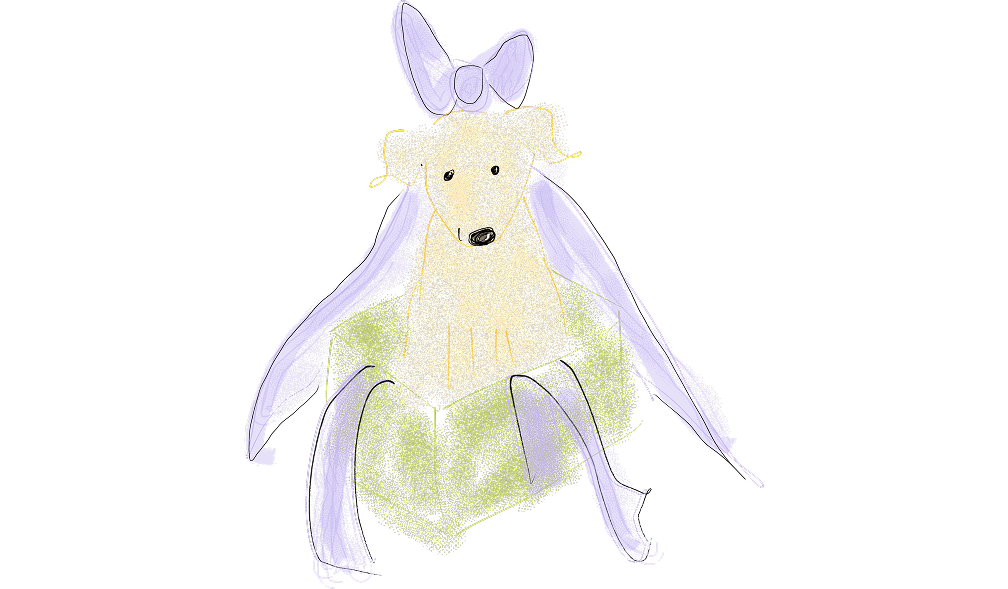
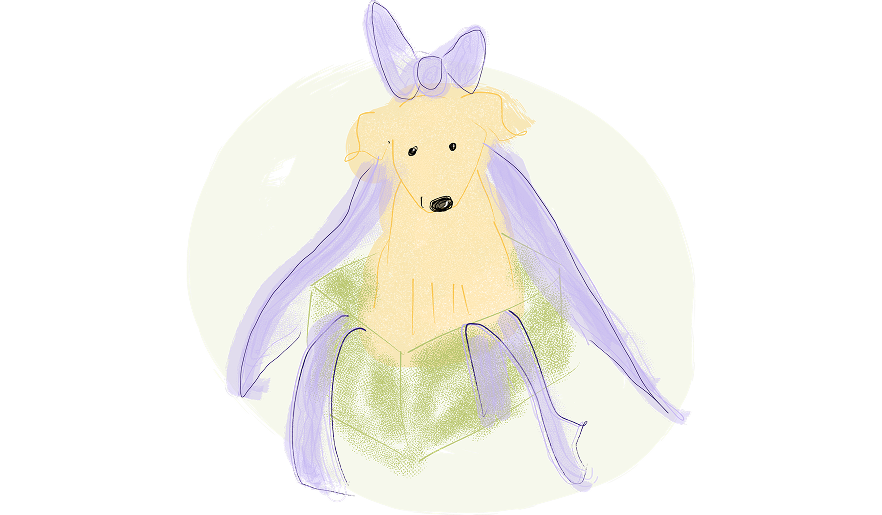
daily

Changed region(s): [[0.2449, 0.0, 0.7959, 0.9942]]

diff --git a/accomondations.html b/accomondations.html
@@ -55,7 +55,7 @@
             <div class="image-viewer">
                 <button class="arrow left">←</button>
 
-                <img id="gallery-image" src="assets/accomondations1.jpg" height="500px" width="auto" alt="Accommodation Image">
+                <img id="gallery-image" src="assets/boende.png" height="500px" width="auto" alt="Accommodation Image">
 
                 <button class="arrow right">→</button>
             </div>

diff --git a/agenda.html b/agenda.html
@@ -112,7 +112,7 @@
                     <summary>Söndag 27 Juni</summary>
                     <p>08:00-11:00 - Frukost</p>
                     <p>11:00 - Utcheckning & hemresa</p>
-                    
+                    <img src="assets/icons/dag4b.png" id="dag4bild">
                 </div>
                 <div class ="image-container">
                     <img src="assets/icons/dag4.png" alt="Description">

diff --git a/styling/style_agenda.css b/styling/style_agenda.css
@@ -1,6 +1,6 @@
 #header-agenda{
 
-    background-image: url("../assets/pic4.jpg");
+    background-image: url("../assets/agenda.png");
    
 
 }
@@ -128,6 +128,14 @@ button.arrow.right{
     font-weight: 600;
 }
 
+.day-container #dag4bild{
+    display: none;
+    
+}
+.day-container.expanded #dag4bild{
+    display: block;
+    
+}
 .day-container li{
     display: none;
     list-style-type: disc;

diff --git a/index.html b/index.html
@@ -26,7 +26,7 @@
 
 
         <div class="engagement">
-            <img id="engagementVid" src="assets/placeholderheader.png">
+            <img id="engagementVid" src="assets/placeholder.png">
             
             <div class="video-controls">
                 <button id="pauseBtn">

diff --git a/styling/style_directions.css b/styling/style_directions.css
@@ -8,7 +8,7 @@
     width: 100%;
     height: 400px;
 
-    background-image: url("../assets/lurö2.jpg");
+    background-image: url("../assets/vägbeskrivning.png");
     background-size: cover;
     background-position: center;
     display: flex;

diff --git a/contacts.html b/contacts.html
@@ -25,6 +25,9 @@
             </nav>   
         </div>  
     </header>
+    <div class="header" id="header-contacts">
+        <h3>Kontaktlista</h3>
+    </div>
     <div class="container">
         <div class ="intro">
             <p>

diff --git a/styling/style_details.css b/styling/style_details.css
@@ -1,4 +1,8 @@
- #details-image{
+#header-details{
+    background-image: url("../assets/övrigadetaljer.png");
+}
+
+#details-image{
     width: 40vw;
     height: auto;
     position: relative;

diff --git a/styling/style_checklist.css b/styling/style_checklist.css
@@ -13,7 +13,7 @@
 
 
 #header-checklist{
-    background-image: url("../assets/background1.jpg");
+    background-image: url("../assets/packlista.png");
 }
 
 .checklist {

diff --git a/styling/style_contacts.css b/styling/style_contacts.css
@@ -1,3 +1,8 @@
+#header-contacts{
+    background-image: url("../assets/kontaktlista.png");
+}
+
+
 .contacts .contact{
     display: flex;
     flex-direction: row;
